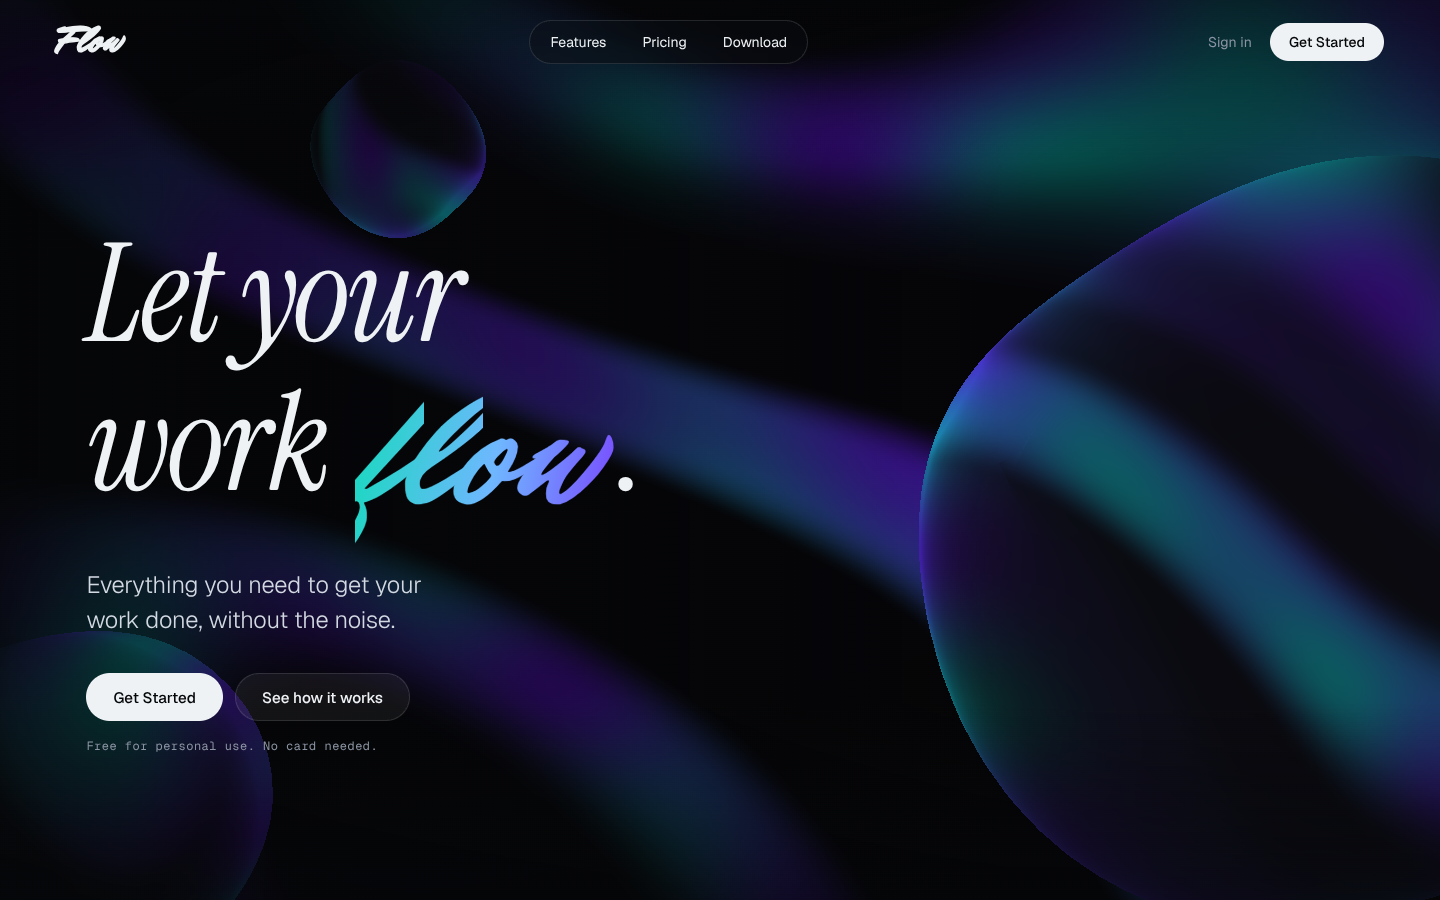
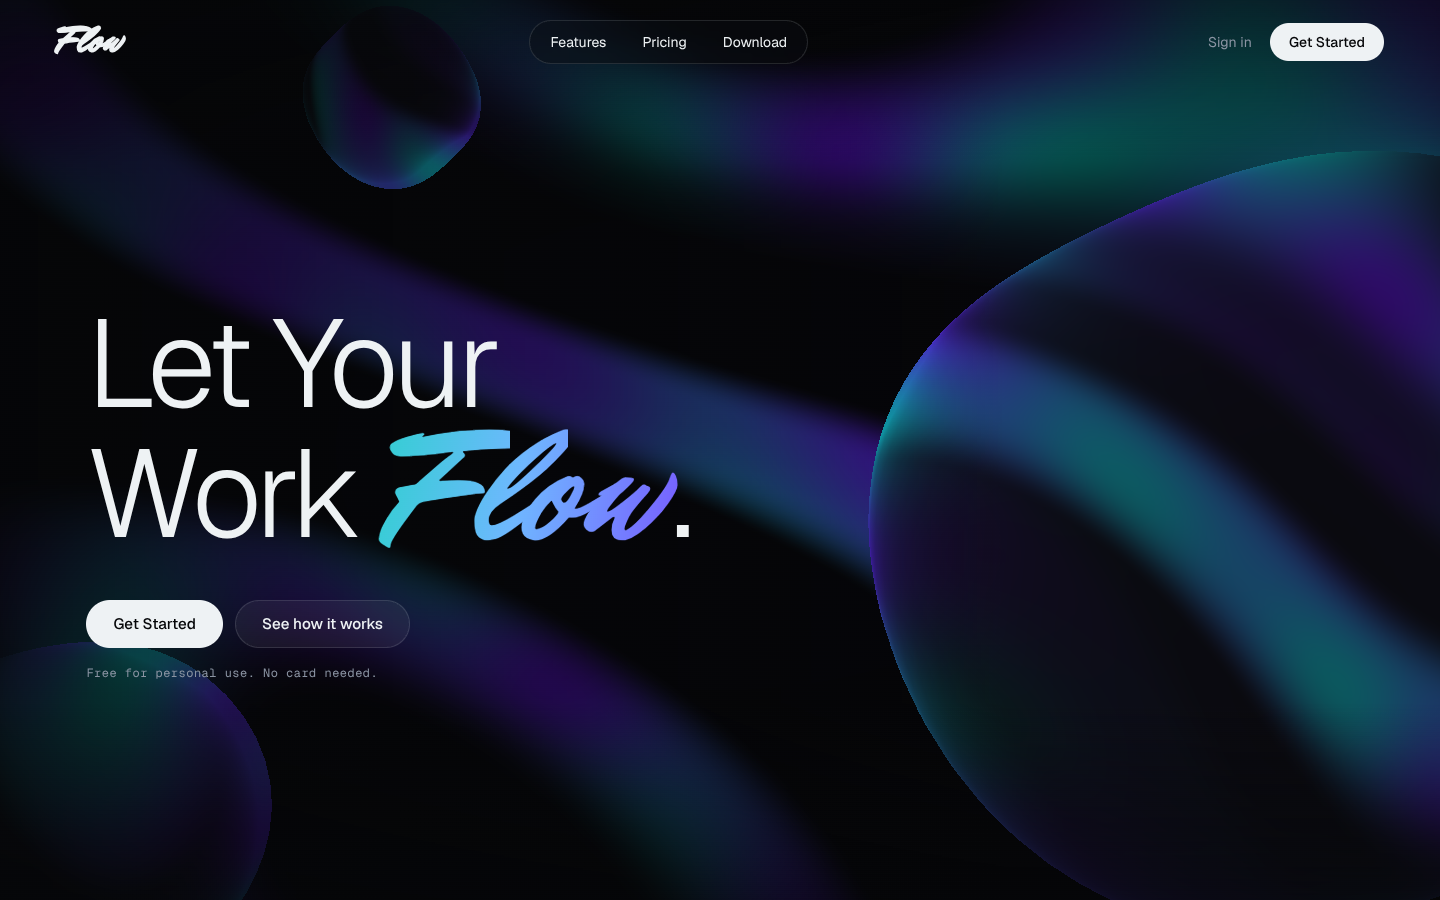
Balance the headline type, smooth the bubble swell, drop the body copy
From comments on the preview:
- "Let Your Work" is now a light, tightly set Geist so the brush-script
  "Flow" carries the expression on its own.
- The bubbles' cursor reaction no longer uses the direction to the cursor,
  which flipped at the cursor and creased the surface into a point; the
  swell is now a smooth bell curve of distance along the surface normal.
- The body copy under the headline is removed, with its styles.

Claude-Session: https://claude.ai/code/session_01Jf9pttvRY5HTnhp8tYBwzY

Changed region(s): [[0.0312, 0.0311, 0.4688, 0.84], [0.5938, 0.1556, 0.9375, 1.0]]

diff --git a/src/components/FlowHero.css b/src/components/FlowHero.css
@@ -181,17 +181,16 @@ summary:focus-visible {
   padding: 48px clamp(16px, 6vw, 96px);
 }
 
-/* the headline is set in the logo's own brush script, in the logo's title
-   case, so the wordmark and the line read as one hand */
+/* "Let Your Work" is a light, tightly set sans, quiet and even, so the one
+   brush-script word, "Flow", in the logo's hand, carries all the expression.
+   The same pairing as the page: plain type everywhere, script for the name. */
 .flow-hero__title {
   margin: 0;
-  font-family: var(--font-display);
-  font-size: clamp(3.8rem, 10.5vw, 12.5rem);
-  font-weight: 400;
-  line-height: 1.02;
-  letter-spacing: 0.005em;
-  /* no thickening stroke here: at this size the brush is heavy enough, and the
-     gradient letters of "Flow" could not carry one, so the line stays even */
+  font-family: var(--font-body);
+  font-size: clamp(3.2rem, 8.6vw, 10.5rem);
+  font-weight: 300;
+  line-height: 1;
+  letter-spacing: -0.045em;
 }
 
 .flow-hero__line {
@@ -207,7 +206,14 @@ summary:focus-visible {
   /* positioned, so each letter's offsetLeft is measured from the word itself */
   position: relative;
   display: inline-block;
+  margin-left: 0.04em;
   padding-right: 0.04em;
+  /* the script's small x-height needs a larger size to sit level with the sans */
+  font-family: var(--font-display);
+  font-size: 1.42em;
+  font-weight: 400;
+  line-height: 0.7;
+  letter-spacing: 0;
   cursor: default;
 }
 
@@ -247,23 +253,11 @@ summary:focus-visible {
   white-space: nowrap;
 }
 
-/* the product's own line, so it reads as a statement rather than body copy */
-.flow-hero__lede {
-  max-width: 30ch;
-  margin: 28px 0 0;
-  color: #d3d9e2;
-  font-size: clamp(1.15rem, 1.65vw, 1.5rem);
-  font-weight: 300;
-  line-height: 1.45;
-  letter-spacing: -0.005em;
-  text-wrap: balance;
-}
-
 .flow-hero__ctas {
   display: flex;
   flex-wrap: wrap;
   gap: 12px;
-  margin-top: 36px;
+  margin-top: 44px;
 }
 
 .flow-hero__note {
@@ -281,7 +275,6 @@ summary:focus-visible {
 
 @media (prefers-reduced-motion: no-preference) {
   .flow-hero__line,
-  .flow-hero__lede,
   .flow-hero__ctas,
   .flow-hero__note {
     animation: flow-rise 900ms cubic-bezier(0.2, 0.8, 0.2, 1) both;
@@ -289,7 +282,6 @@ summary:focus-visible {
 
   .flow-hero__line:nth-child(1) { animation-delay: 120ms; }
   .flow-hero__line:nth-child(2) { animation-delay: 220ms; }
-  .flow-hero__lede { animation-delay: 380ms; }
   .flow-hero__ctas { animation-delay: 480ms; }
   .flow-hero__note { animation-delay: 560ms; }
 }
@@ -384,9 +376,6 @@ summary:focus-visible {
     max-width: 1280px;
   }
 
-  .flow-hero__lede {
-    font-size: 1.75rem;
-  }
 
   .flow-hero__ctas .flow-button {
     min-height: 56px;
@@ -422,12 +411,6 @@ summary:focus-visible {
     font-size: clamp(2.4rem, 17vh, 6rem);
   }
 
-  .flow-hero__lede {
-    max-width: 52ch;
-    margin-top: 14px;
-    font-size: 0.95rem;
-    line-height: 1.5;
-  }
 
   .flow-hero__ctas {
     margin-top: 18px;

diff --git a/src/components/LiquidDimensionalField.tsx b/src/components/LiquidDimensionalField.tsx
@@ -8,8 +8,8 @@ import dimensionalSource from "../shaders/neuform-isolated/sources/vanguard-dime
    rewrites a copy of it at load time, the same way ThreeUI's own host adapts
    its documents. The authored spheres are rigid: they only bob, so their
    outlines stay perfect arcs. Here their surface flows instead. Slow waves
-   ripple it all the time, and near the cursor it swells and stretches toward
-   the pointer like liquid being drawn, then relaxes when the pointer rests.
+   ripple it all the time, and near the cursor it swells softly outward like
+   liquid being drawn, then relaxes when the pointer rests.
    Everything else (the beams, colours, camera parallax and timing) is the
    authored effect. */
 
@@ -35,13 +35,15 @@ const LIQUID_VERTEX = `uniform float u_time;
                         vec3 p = position + normal * 0.11 * w;
                         vec4 world = modelMatrix * vec4(p, 1.0);
 
-                        // drawn toward the pointer: the near side swells out and leans to the cursor
+                        // drawn toward the pointer as a broad, soft swell: the surface moves
+                        // outward along its own normal by a bell curve of distance from the
+                        // cursor. Nothing here uses the direction to the cursor, which is
+                        // undefined at the cursor itself and flips across it, creasing the
+                        // surface into a point; distance alone stays smooth everywhere.
                         vec2 toPointer = u_pointer.xy - world.xy;
-                        float reach = u_pull * exp(-dot(toPointer, toPointer) * 0.12);
+                        float swell = u_pull * exp(-dot(toPointer, toPointer) * 0.06);
                         vec3 worldNormal = normalize(mat3(modelMatrix) * normal);
-                        float facing = max(0.0, dot(normalize(vec3(toPointer, 0.0001)), normalize(vec3(worldNormal.xy, 0.0001))));
-                        world.xy += toPointer * reach * 0.32 * (0.35 + 0.65 * facing);
-                        world.xyz += worldNormal * reach * 0.55 * facing;
+                        world.xyz += worldNormal * swell * 0.55;
 
                         // tilt the normal with the waves so the fresnel rim ripples too
                         vec3 n = normal + 0.12 * vec3(cos(position.x * 2.1 + t * 0.9), cos(position.y * 1.7 + t * 0.7), cos(position.z * 2.3 + t * 0.8));

diff --git a/src/components/FlowHero.tsx b/src/components/FlowHero.tsx
@@ -113,9 +113,6 @@ export function FlowHero() {
           <span className="flow-hero__line">Let Your</span>
           <span className="flow-hero__line">Work <FlowWord />.</span>
         </h1>
-        <p className="flow-hero__lede">
-          Everything you need to get your work done, without the noise.
-        </p>
         <div className="flow-hero__ctas">
           <a className="flow-button" href="#get-started">Get Started</a>
           <a className="flow-button flow-button--glass" href="#features">See how it works</a>

diff --git a/docs/PROCESS.md b/docs/PROCESS.md
@@ -99,7 +99,8 @@ This took the most rounds, and most of the direction came from me.
 2. **A detour.** I asked for a better treatment and described a drop making each letter. Claude read that as a request for a new animation and built a drop that writes the word in brush script. The script wasn't readable at headline size, and I preferred the pour.
 3. **Bouncy vs flowing.** On the logo, I called out that the drop hopping between letters felt bouncy. It now glides F → w along one even path, each letter brightening as it passes.
 4. **A better typeface for the pour.** The pour animation came back, first in *Fraunces* italic, a readable calligraphic serif.
-5. **Final: the logo's own hand.** I asked for the headline to use the logo's typeface and letter case. It now reads **Let Your Work Flow.** in the same brush script as the logo (*Mr Dafoe*), in title case, so the wordmark and the headline read as one hand. "Flow" carries the gradient and the pour: liquid fills each letter, which swells slightly as it fills, then pours on to the next. The tagline stays in the plain sans-serif so it stays readable.
+5. **The logo's own hand.** I asked for the headline to use the logo's typeface and letter case, giving **Let Your Work Flow.** in title case.
+6. **Final: balance.** Set entirely in script, the line felt heavy, so through a comment on the preview I asked for "Let Your Work" in something that balances "Flow". It is now a light, tightly spaced sans (*Geist*, the same face as the buttons), and only **Flow** stays in the logo's brush script, carrying the gradient and the pour. It's the same pairing Butter uses: plain type everywhere, script only for the name. I also asked to remove the body copy under the headline, so the hero is just the headline and the call to action.
 
 Lesson for my workflow: when I ask for a change to one thing (here, the typeface), I need to say explicitly what to keep (the animation). The AI otherwise tends to redo everything.
 
@@ -118,12 +119,13 @@ I noticed the background bubbles were rigid: perfect spheres whose outlines stay
 
 - The ThreeUI source file stays untouched. A new component, `LiquidDimensionalField`, rewrites a copy of it when the page loads, the same way ThreeUI's own host adapts its documents.
 - The bubbles' vertex shader now ripples their surface with slow crossing waves, so they are soft blobs.
-- Near the cursor, the surface swells and stretches toward it like liquid being drawn, then relaxes when the pointer rests.
+- Near the cursor, the surface swells softly outward like liquid being drawn, then relaxes when the pointer rests.
+- My first version pulled the surface *toward* the cursor, and I noticed it made the bubbles sharp: a crease formed where the cursor met an edge. Any movement aimed at the cursor's direction flips right at the cursor, so the swell now depends only on distance from it. That keeps the bubbles round and smooth while they react.
 - If the source ever changes and the hooks no longer match, it falls back to the original effect instead of breaking.
 
 | At rest | Cursor near the right bubble |
 |---|---|
-| ![Liquid bubbles](process/11-liquid-bubbles.png) | ![Bubble drawn to the cursor](process/12-liquid-bubbles-cursor.png) |
+| ![Liquid bubbles](process/11-liquid-bubbles.png) | ![Bubble swelling smoothly toward the cursor](process/12-liquid-bubbles-cursor.png) |
 
 ## Where I directed or corrected the AI
 
@@ -138,6 +140,8 @@ I noticed the background bubbles were rigid: perfect spheres whose outlines stay
 | Set the headline in a different typeface from the logo | Asked for the logo's typeface and letter case in the headline, so the brand reads as one hand |
 | Hops and squash in the logo animation | Called out the bouncy feel; the drop now glides |
 | Rigid, perfectly round bubbles | Asked for liquid bubbles that flow toward the cursor |
+| Bubbles that turned sharp when reacting to the cursor | Asked for flowing without losing smoothness |
+| A headline set entirely in script, plus body copy | Asked for a balancing typeface for "Let Your Work", and removed the body copy |
 | A static logo, then a wave effect in the original type | Pointed to Butter's melting brush wordmark as the reference, then redirected to letters connected by a drop |
 
 ## Reflection
